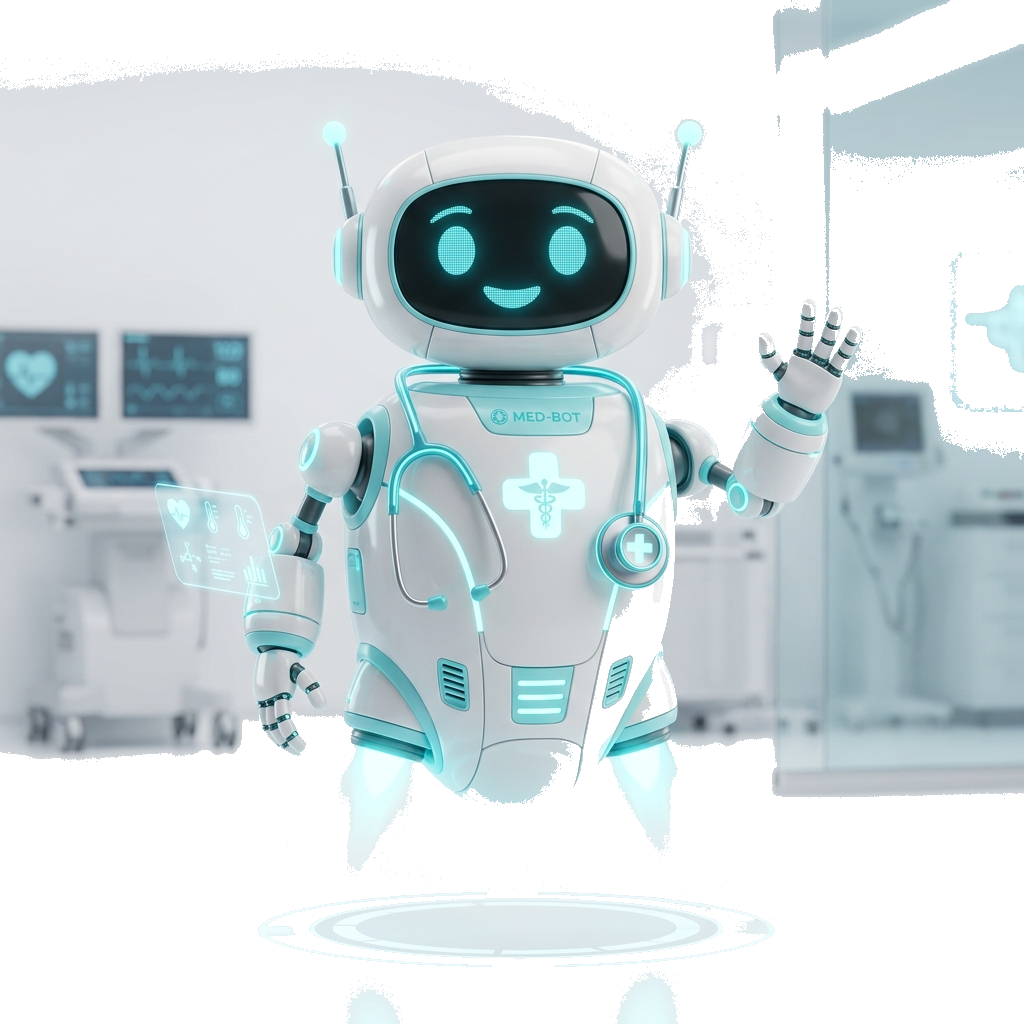
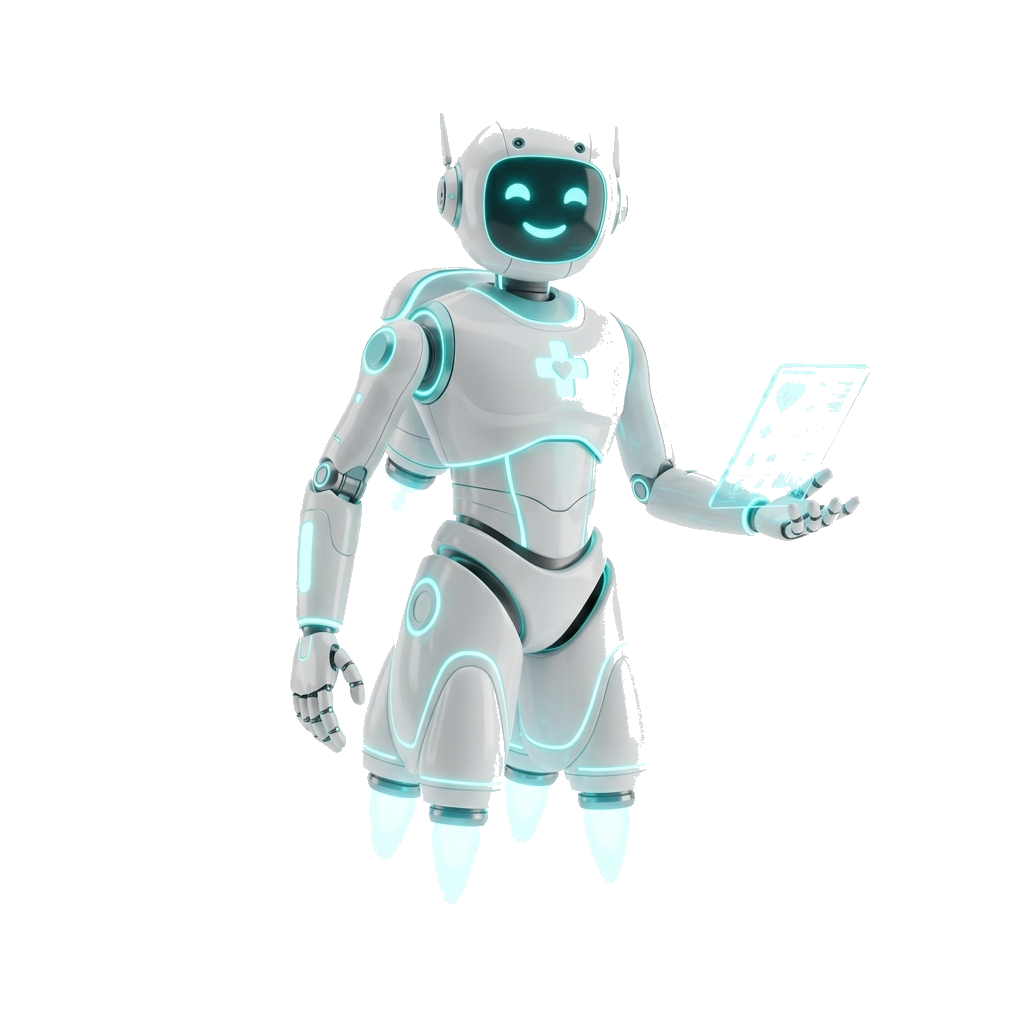
style: replace robot with purely isolated image and mix-blend-darken

diff --git a/client/src/pages/LandingPage.jsx b/client/src/pages/LandingPage.jsx
@@ -110,11 +110,11 @@ function LandingPage() {
       <AmbientBlurCrossBackground />
       
       {/* 3D Hovering Robot Doctor at the back */}
-      <div className="absolute right-[5%] top-[15%] z-0 h-[60%] w-auto max-w-[45%] opacity-60 pointer-events-none md:right-[10%] md:top-[20%] md:h-[70%]">
+      <div className="absolute right-[5%] top-[15%] z-0 h-[60%] w-auto max-w-[45%] opacity-60 pointer-events-none md:right-[10%] md:top-[20%] md:h-[70%] mix-blend-darken">
         <img 
           src="/robot-doctor.png" 
           alt="3D Hovering Robot Doctor" 
-          className="robot-hover h-full w-full object-contain"
+          className="robot-hover h-full w-full object-contain mix-blend-darken"
           aria-hidden="true"
         />
       </div>